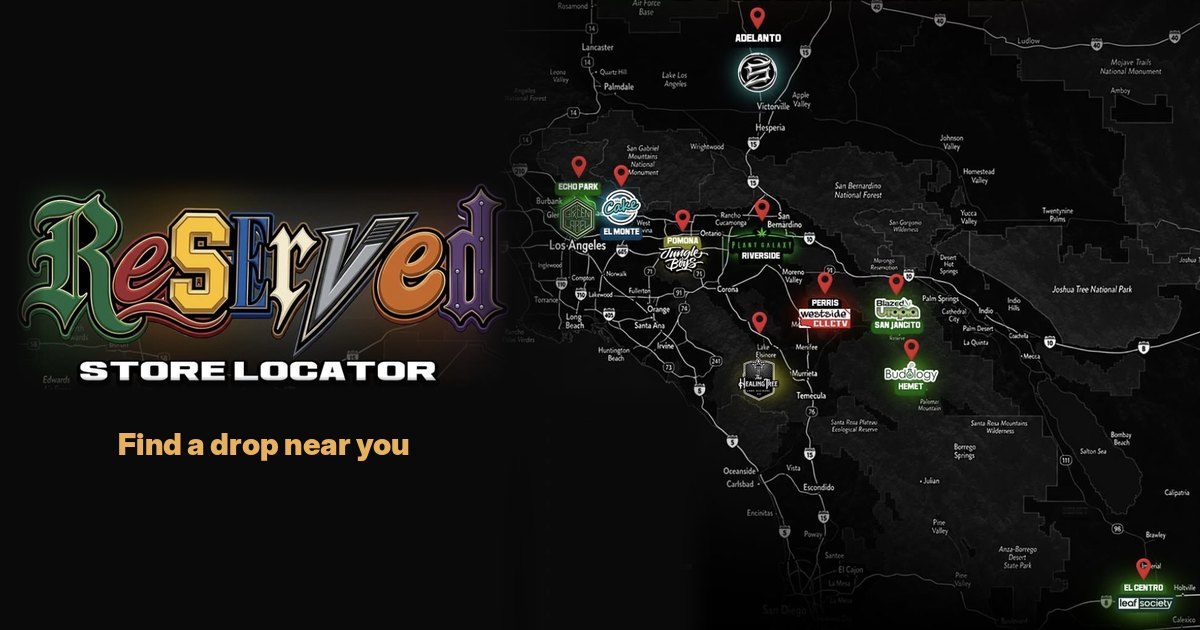
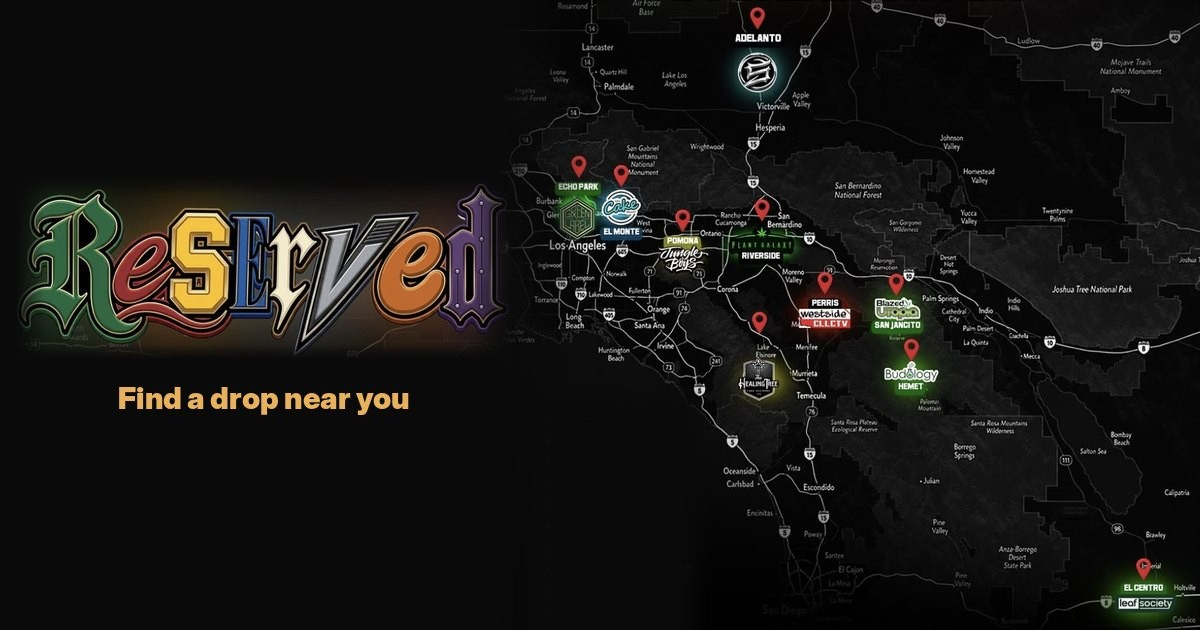
Link preview image: drop "STORE LOCATOR", tagline moves up
The preview is shared by every page, so it now reads as Reserved plus
"Find a drop near you". ?v=2 makes link previews fetch the new image.

Changed region(s): [[0.0617, 0.5429, 0.37, 0.7238]]

diff --git a/collection.html b/collection.html
@@ -51,7 +51,7 @@
   <meta property="og:title" content="Reserved | The Collection" />
   <meta property="og:description" content="The full Reserved lineup: flower, pre-rolls, concentrates and vapes. Find any of it at a shop near you." />
   <meta property="og:url" content="https://d-velopr.github.io/Reserved/collection.html" />
-  <meta property="og:image" content="https://d-velopr.github.io/Reserved/assets/img/gen/og-preview.jpg" />
+  <meta property="og:image" content="https://d-velopr.github.io/Reserved/assets/img/gen/og-preview.jpg?v=2" />
   <meta property="og:image:type" content="image/jpeg" />
   <meta property="og:image:width" content="1200" />
   <meta property="og:image:height" content="630" />

diff --git a/index.html b/index.html
@@ -33,7 +33,7 @@
   <meta property="og:title" content="Reserved | Reserved Way Or No Way" />
   <meta property="og:description" content="Reserved: cultivated by palm trees. See the collection and find a shop near you in Southern California." />
   <meta property="og:url" content="https://d-velopr.github.io/Reserved/" />
-  <meta property="og:image" content="https://d-velopr.github.io/Reserved/assets/img/gen/og-preview.jpg" />
+  <meta property="og:image" content="https://d-velopr.github.io/Reserved/assets/img/gen/og-preview.jpg?v=2" />
   <meta property="og:image:type" content="image/jpeg" />
   <meta property="og:image:width" content="1200" />
   <meta property="og:image:height" content="630" />

diff --git a/about.html b/about.html
@@ -51,7 +51,7 @@
   <meta property="og:title" content="Reserved | About" />
   <meta property="og:description" content="Reserved is a Southern California cannabis brand, sold at licensed shops across SoCal. Cultivated by palm trees." />
   <meta property="og:url" content="https://reservedwayornoway.com/about.html" />
-  <meta property="og:image" content="https://reservedwayornoway.com/assets/img/gen/og-preview.jpg" />
+  <meta property="og:image" content="https://reservedwayornoway.com/assets/img/gen/og-preview.jpg?v=2" />
   <meta property="og:image:type" content="image/jpeg" />
   <meta property="og:image:width" content="1200" />
   <meta property="og:image:height" content="630" />

diff --git a/privacy.html b/privacy.html
@@ -33,7 +33,7 @@
   <meta property="og:title" content="Reserved | Privacy Policy" />
   <meta property="og:description" content="What information Reserved collects on this site, how it's used, and your choices." />
   <meta property="og:url" content="https://reservedwayornoway.com/privacy.html" />
-  <meta property="og:image" content="https://reservedwayornoway.com/assets/img/gen/og-preview.jpg" />
+  <meta property="og:image" content="https://reservedwayornoway.com/assets/img/gen/og-preview.jpg?v=2" />
   <meta property="og:image:type" content="image/jpeg" />
   <meta property="og:image:width" content="1200" />
   <meta property="og:image:height" content="630" />

diff --git a/faq.html b/faq.html
@@ -51,7 +51,7 @@
   <meta property="og:title" content="Reserved | FAQ" />
   <meta property="og:description" content="Answers about Reserved: where to buy, online orders, lab testing, the email list and more." />
   <meta property="og:url" content="https://reservedwayornoway.com/faq.html" />
-  <meta property="og:image" content="https://reservedwayornoway.com/assets/img/gen/og-preview.jpg" />
+  <meta property="og:image" content="https://reservedwayornoway.com/assets/img/gen/og-preview.jpg?v=2" />
   <meta property="og:image:type" content="image/jpeg" />
   <meta property="og:image:width" content="1200" />
   <meta property="og:image:height" content="630" />

diff --git a/contact.html b/contact.html
@@ -33,7 +33,7 @@
   <meta property="og:title" content="Reserved | Contact Us" />
   <meta property="og:description" content="Questions, shop inquiries or privacy requests for Reserved." />
   <meta property="og:url" content="https://reservedwayornoway.com/contact.html" />
-  <meta property="og:image" content="https://reservedwayornoway.com/assets/img/gen/og-preview.jpg" />
+  <meta property="og:image" content="https://reservedwayornoway.com/assets/img/gen/og-preview.jpg?v=2" />
   <meta property="og:image:type" content="image/jpeg" />
   <meta property="og:image:width" content="1200" />
   <meta property="og:image:height" content="630" />

diff --git a/terms.html b/terms.html
@@ -33,7 +33,7 @@
   <meta property="og:title" content="Reserved | Terms &amp; Conditions" />
   <meta property="og:description" content="The terms for using the Reserved website." />
   <meta property="og:url" content="https://reservedwayornoway.com/terms.html" />
-  <meta property="og:image" content="https://reservedwayornoway.com/assets/img/gen/og-preview.jpg" />
+  <meta property="og:image" content="https://reservedwayornoway.com/assets/img/gen/og-preview.jpg?v=2" />
   <meta property="og:image:type" content="image/jpeg" />
   <meta property="og:image:width" content="1200" />
   <meta property="og:image:height" content="630" />

diff --git a/store-locator.html b/store-locator.html
@@ -54,7 +54,7 @@
   <!-- Link preview (iMessage, Instagram, etc.): 1200x630, built from the Instagram
        store-locator post (assets/img/marketing/igpost.jpeg): wordmark left, all 10 stores
        on the map right. Must be a full URL to show. -->
-  <meta property="og:image" content="https://d-velopr.github.io/Reserved/assets/img/gen/og-preview.jpg" />
+  <meta property="og:image" content="https://d-velopr.github.io/Reserved/assets/img/gen/og-preview.jpg?v=2" />
   <meta property="og:image:type" content="image/jpeg" />
   <meta property="og:image:width" content="1200" />
   <meta property="og:image:height" content="630" />

diff --git a/404.html b/404.html
@@ -34,7 +34,7 @@
   <meta property="og:title" content="Reserved | Page Not Found" />
   <meta property="og:description" content="This page isn't here." />
   <meta property="og:url" content="https://reservedwayornoway.com/404.html" />
-  <meta property="og:image" content="https://reservedwayornoway.com/assets/img/gen/og-preview.jpg" />
+  <meta property="og:image" content="https://reservedwayornoway.com/assets/img/gen/og-preview.jpg?v=2" />
   <meta property="og:image:type" content="image/jpeg" />
   <meta property="og:image:width" content="1200" />
   <meta property="og:image:height" content="630" />
